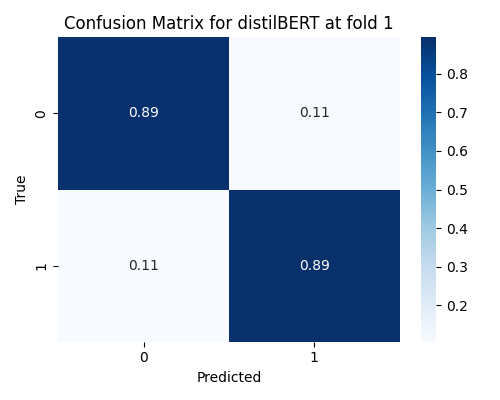
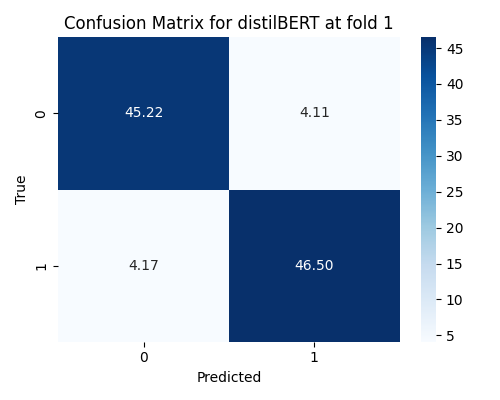
Change confusion matrices from true to all

diff --git a/transformer/BERT.py b/transformer/BERT.py
@@ -312,7 +312,7 @@ class BERTrainer:
             )
 
             # 3. Confusion matrix
-            cm = confusion_matrix(labels, preds, normalize='true')
+            cm = confusion_matrix(labels, preds, normalize='all') * 100
 
              # 4. Save metrics
             with open(f"{plot_path}/metrics_fold_{fold + 1}.txt", "w") as f:
